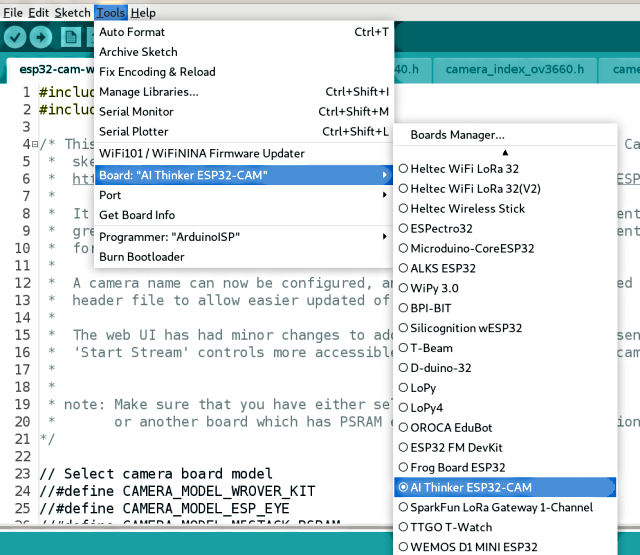
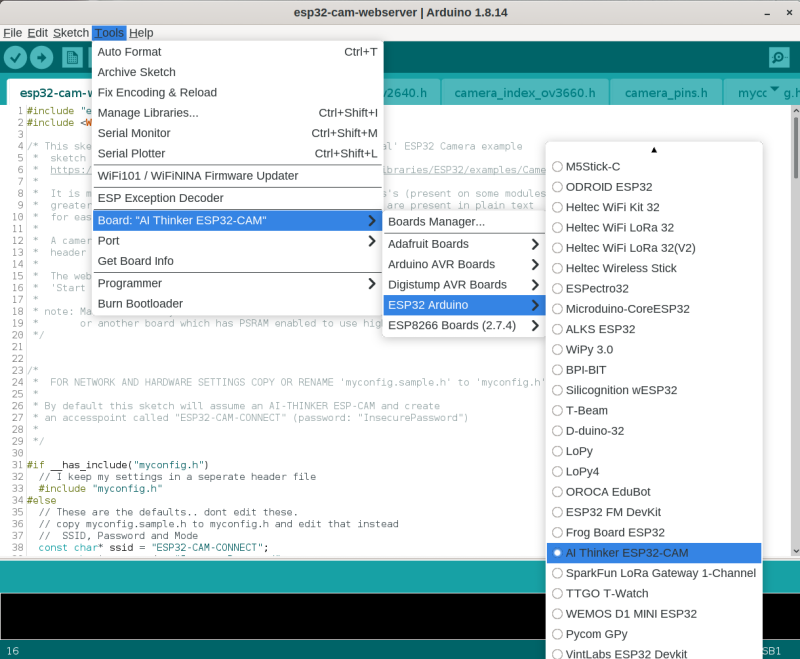
Config Documentation (#16)
* New board selection graphic with new menu layout

* Update with new config, triage text and  links.

diff --git a/README.md b/README.md
@@ -19,9 +19,10 @@ I have four [AI-THINKER ESP32-CAM](https://github.com/raphaelbs/esp32-cam-ai-thi
 
 * For some other good examples and information on ESP32 based webcams I also recommend the sketches here:
 https://github.com/raphaelbs/esp32-cam-ai-thinker
-
 * The AI thinker wiki can be quite informative, when run through an online translator and read sensibly:
 https://wiki.ai-thinker.com/esp32-cam
+* Default pinouts are also included for WRover Kit, ESP Eye and M5Stack esp32 camera modules. 
+  I do not have any of these boards, so they are untested by me. Please [let me know](https://github.com/easytarget/esp32-cam-webserver/issues) if you find issues or have a board not [in the list](./camera_pins.h).
 
 ## Troubleshooting:
 
@@ -31,13 +32,14 @@ https://randomnerdtutorials.com/esp32-cam-troubleshooting-guide/
 ## Setup:
 
 * For programming you will need a suitable development environment, I use the Arduino IDE, but this code should work in the Espressif development environment too.
-* Follow [This Guide](https://github.com/espressif/arduino-esp32/blob/master/docs/arduino-ide/boards_manager.md) to set up the Espressif Arduino core in the IDE.
-* The AI-THINKER board requires use of an external **3.3v** serial adapter to program; I use a `FTDI Friend` adapter, for more about this read AdaFruits excellent [FTDI Friend guide](https://learn.adafruit.com/ftdi-friend). 
+* Make sure you are using the [latest version](https://www.arduino.cc/en/main/software#download) of the IDE and then follow [This Guide](https://github.com/espressif/arduino-esp32/blob/master/docs/arduino-ide/boards_manager.md) to set up the Espressif Arduino core for the IDE.
+* If you have a development board (anything that can be programmed via a standard USB cable/jack on the board itself) you are in luck. Just plug it in and skip ahead to the [config](#config) section. Remember to set your board model.
+* The AI-THINKER board requires use of an external **3.3v** serial adapter to program; I use a `FTDI Friend` adapter, for more about this read AdaFruits excellent [FTDI Friend guide](https://learn.adafruit.com/ftdi-friend).
 * Be careful not to use a 5v serial adapter since this will damage the ESP32.
 
-### Wiring
+### Wiring for AI-THINKER Boards (and similar clone-alikes)
 
-Is pretty simple, see the diagram below.
+Is pretty simple, You just need jumper wires, no soldering really required, see the diagram below.
 ![Hoockup](Docs/hookup.png)
 * Connect the **RX** line from the serial adapter to the **TX** pin on ESP32
 * The adapters **TX** line goes to the ESP32 **RX** pin
@@ -46,13 +48,15 @@ Is pretty simple, see the diagram below.
 
 ### Config
 
-You need to set the Board you are using in the main `esp32-cam-webserver.ino` sketch file, it defaults to the AI-THINKER, but the WRover Kit, ESP Eye and M5Stack are also availiable.
+By default the sketch assumes you have an AI-THINKER board, it creates an AccessPoint called `ESP32-CAM-CONNECT` and with the password `InsecurePassword`; connect to that and then browse to [`http://192.168.4.1/`](http://192.168.4.1/). This is nice and easy for testing and demo purposes.
 
-You can also set the camera name plus SSID and password for your WiFi network in that file, or follow the notes about using a separate file for your settings.
+To make a permanent config for a different board, or with your home wifi settings etc. copy (or rename) the file `myconfig.sample.h` in the sketch folder to `myconfig.h` 
+
+You can now set a camera name, board model, wifi and some other defaults in that file. And because this is your private copy it will not get overwritten if you update the main sketch!
 
 ### Programming 
 
-Assuming you are using the latest Espressif Arduino core the AI-THINKER board will appear in the ESP32 Arduino section of the boards list. 
+Assuming you are using the latest Espressif Arduino core the AI-THINKER board (or whatever you use) will appear in the ESP32 Arduino section of the boards list. 
 
 ![IDE board config](Docs/board-selection-small.png)
 
@@ -65,6 +69,7 @@ If you have a status LED configured it will give a single slow flash when it beg
 Go to the URL given in the serial output, the web UI should appear with the settings panel open. Click away!
 
 ## My Modifications:
+
 The basic example is extended to allow control of a high power LED FlashLamps, which are present on my modules. It can also blink a status LED to show when it connects to WiFi.
 
 The WiFi details can be stored in an (optional) header file to allow easier code development, and a camera name for the UI title can be configured. The lamp and status LED's are optional, and the lamp uses a exponential scale for brightness so that the control has some finess.
@@ -78,13 +83,24 @@ The web UI has had minor changes to add the lamp control (only when enabled), I 
 I would also like to shoutout to @jmfloyd; who suggested rotating the image in the browser since the esp32 itself cannot do this.
 
 ## Notes: 
+
 * I only have AI-THINKER modules with OV2640 camera installed; so I have only been able to test with this combination. I have attempted to preserve all the code for other boards and the OV3660 module, and I have merged all changes for the WebUI etc, but I cannot guarantee operation for these.
 * I created a small board with a handy switch for power, a pushbutton for the GPIO0 programming switch, and a socket for the AI-THINKER board. This proved very useful for development work and programming multiple devices.
 * I found some excellent [cases on Thingieverse](https://www.thingiverse.com/thing:3708345).
 
 ![Cameras and a Programmer](Docs/webcams.programmer.jpg)
 
+## Contributing
+
+Contributions are welcome!
+
+To make a PR please first fork the repo in github, and make a branch in that fork with a sensible name. Apply your changes to that branch (and test if you can), commit and then create a PR to merge to a branch of the same name in my repo.
+
+Please do not submit PR's onto the master branch of my repo unless they are very trivial (spellings etc). Make sure your changes are consistent with the style and purpose of the existing code; and provide a coherent explanation of what/why in the PR. 
+
 ## Plans
+
+You can check the [enhancement list](https://github.com/easytarget/esp32-cam-webserver/issues?q=is%3Aissue+label%3Aenhancement) (past and present), and add any thoghts you may have there. Things that have occurred to me are, in no particular order:
 * Improve Wifi, add a captive portal for setup and fallback, better disconnect/reconnect behaviour.
 * The module has a SD/TF card slot; this is currently unused, but I would like to add the ability to store snapshots; recording Video at low resolution may be possible, but the card interface is too slow for HD video as far as I know.
 * Remove face rcognition to save a Mb+ of code space and then implement over the air updates.
